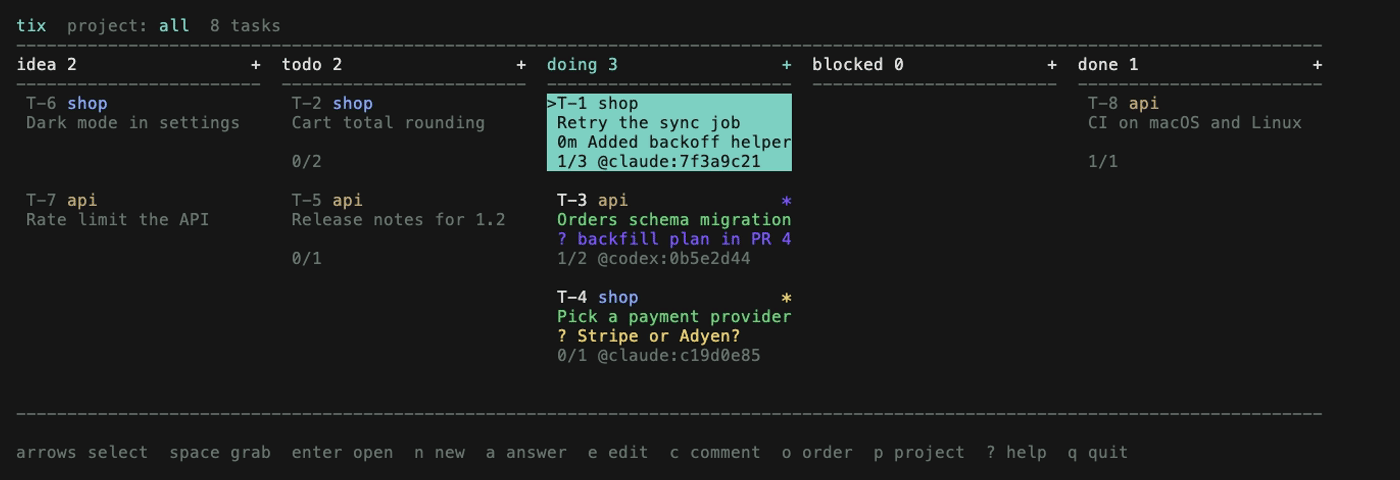
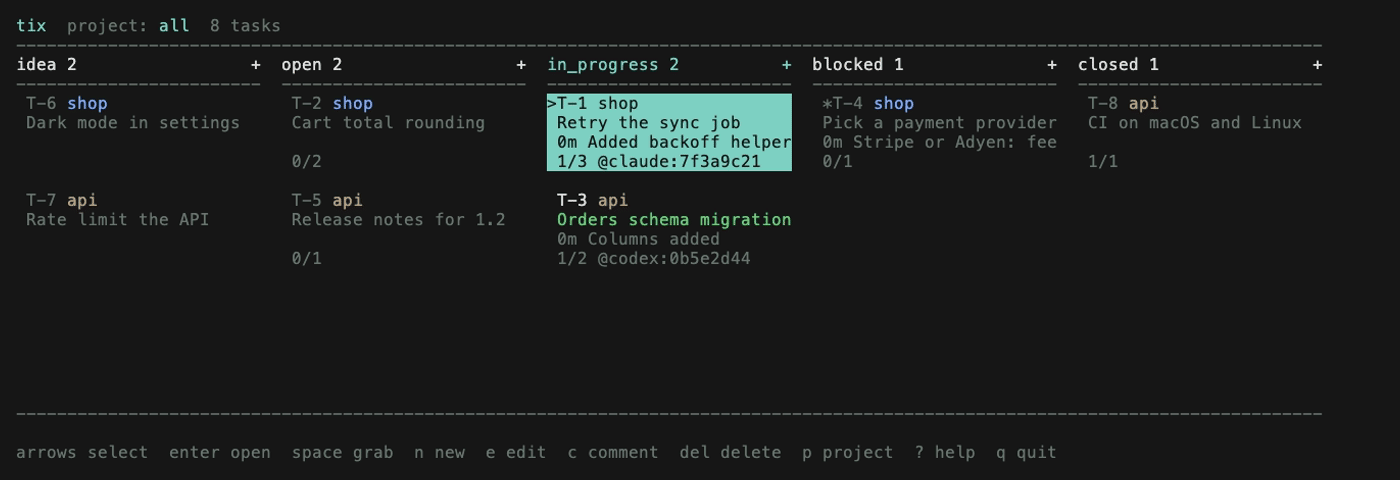
docs: align rules, skill and docs with the 0.7.0 model (#36)
Docs for 0.7.0: RULES.md, skill, README, spec and how-it-works follow the agent-memory model; state.md items moved to tix; board.png and demo.gif rebuilt.

diff --git a/internal/assets/assets.go b/internal/assets/assets.go
@@ -15,7 +15,7 @@ var Rules string
 
 // RulesHash - sha256 of Rules. A test keeps it equal to RULES.md: when the text changes, the old
 // hash moves into previousRules, so a store with an untouched old copy gets the new text.
[2 lines of base64/hex data omitted]
 
 // previousRules - sha256 of RULES.md texts shipped by earlier versions. An empty file is not here:
 // the owner may have emptied it on purpose.
@@ -34,6 +34,8 @@ var previousRules = map[string]bool{
[5 lines of base64/hex data omitted]
 }
 
 // OutdatedRules reports whether text is an untouched RULES.md of an earlier version.

diff --git a/internal/assets/RULES.md b/internal/assets/RULES.md
@@ -7,18 +7,20 @@ Tasks are `T-*.md` files in `~/tasks`, under git. Change them only with `tix`. R
 1. `tix take T-12`: the task moves to in_progress and you hold it for 3 hours.
 2. Work. Log progress with `tix note T-12 "text"` (see Progress). Any other write of yours to the task extends the hold; `note` does not.
 3. `tix check T-12 1 2`: mark finished criteria.
-4. `tix comment T-12 "text"`: comments are only appended.
+4. `tix comment T-12 "text"`: the human's channel. You write notes, not comments; comments are only appended.
 5. `tix done T-12 -m "result"`: closes the task and releases it. All criteria are checked: close the task now, do not keep it open for follow-up work.
 
-When a session ends without closing, write the comment `Done / Decided / Waiting` and run `tix take T-12 --release`: the task goes back to open.
+When a session ends without closing, write one note `Done / Decided / Waiting` and run `tix take T-12 --release`: the task goes back to open.
 
 ## Progress
 
 The human reads the task instead of your session. Keep it short and current.
 
-- Write a note on a decision (what you chose and why), a question, a finding and a stage change: spec, code, review, done. Not on every command. A note is up to 300 characters; longer text goes to a file and the note keeps its path. The board shows the latest note.
-- New comments on your tasks arrive in your context marked "New comments on your tasks", with the author. A comment by `human` is the human's instruction for that task; a comment by another agent is information.
-- A task should fit one session. It grew past that: create tasks for the rest, then `tix done T-12 --force -m "rest in T-15, T-16"`.
+- Write a short note on every movement: a decision (what you chose and why), a commit (`tix note T-12 "3f2a1c removed ask from the core"`: hash and gist), a PR with its link, a finding, a stage change. Not on every command. A note is up to 300 characters; longer text goes to a file and the note keeps its path. The board shows the latest note.
+- New comments on your tasks arrive in your context marked "New comments on your tasks", with the author. A comment by `human` is the human's instruction for that task; a comment by another agent, if any, is information.
+- A task is one or two sessions. It grew past that: create tasks for the rest, then `tix done T-12 --force -m "rest in T-15, T-16"`.
+- Write tickets in the user's language. The title is clear without context. Add to an existing task with the same result, do not open a duplicate.
+- The human's title and fields are edited with `tix set`; do not revert them.
 
 ## Identity
 
@@ -37,6 +39,7 @@ The name is `agent:session-id`: `--as`, then `CLAUDE_CODE_SESSION_ID`, `CODEX_TH
 - Into blocked: say why with `-m "reason"` or `tix set T-12 waiting="reason"`. Leaving blocked clears the field. Blocked drops your hold; the board marks it with `*` for the human.
 - Into closed: all criteria checked. Otherwise `--force -m "reason"`. A task with no criteria needs `-m "result"`.
 - `tix new "title" --to open --body-file body.md` creates a task with its criteria in one call (`--body-file -` reads stdin; without the flag stdin is not read). Without criteria `--to open` is refused; `--to` blocked or closed is refused: create the task, then `tix move` or `tix done`.
+- Restore: `~/tasks` is a git repository, `git -C ~/tasks log -- T-12.md` finds the commit to revert.
 - `tix list` hides closed tasks; `--all` or `--status closed` shows them, `--grep TEXT` matches the title.
 - `status`, `claim`, `rank`, `id` and `created` are not set with `set`. Use `move`, `take` and `done`.
 - `set` takes: title, project, waiting, tags, external, abstract.
@@ -48,7 +51,7 @@ The name is `agent:session-id`: `--as`, then `CLAUDE_CODE_SESSION_ID`, `CODEX_TH
 - Leftover work goes into a new task. New scope is a new task too. Do not stretch the open one.
 - Bigger work is an epic: a task tagged `epic` whose `## Details` lists its tasks as `- [ ] T-N <gist>`; a line without T-N is an acceptance criterion. The list lives only in the epic, a child task has no `Epic:` line (`tix show` prints it). The mark of a task line follows the task status by itself: `tix done` ticks it, a move out of closed clears it, `tix check` refuses it. When the last task line is ticked, `tix done` says the epic is ready for acceptance. Closing the epic ticks the lines of closed tasks; a line of an open or missing task refuses it, even with `--force`.
 - Frozen work stays in idea with the tag `frozen`: `tix set T-12 tags=frozen`. Do not close it and do not fold several tasks into one.
-- A long text (a report, a review, a log) goes into a file; the task gets its path in a comment.
+- A long text (a report, a review, a log) goes into a file; the task gets its path in a note.
 - You may create tasks, move them from idea to open, close and delete them, and edit `config.toml`.
 - An idea outside a project goes to idea with project `personal`.
 - A task needs the user? Move it to blocked with the reason: `tix move T-12 blocked -m "what you need"`, and write the details in a note. The human answers with a comment and moves it back.

diff --git a/docs/spec.md b/docs/spec.md
@@ -27,7 +27,8 @@ Compiled by the agent on 2026-10-20 from the user's decisions (`docs/specs/decis
 
 - Goal (D56): memory of agents between sessions and projects. Tasks are md files in `~/tasks` under git,
   and each edit leads to the agent session that made it. One folder for all projects and personal ideas;
-  the agent manages tasks through `tix`, the human looks at the board and the cards.
+  the agent manages tasks through `tix` and logs a short note on every movement (a decision, a commit, a PR); the human looks at the dashboard (the board and the cards), writes comments and edits through the TUI or `tix set`.
+- Restore: `~/tasks` is a git repository, `git -C ~/tasks log -- T-12.md` and `git revert` bring a task back; there is no backup command.
 - Principle (D44): a reference standard of speed, lightness and reliability. Each part passes the question "what
   breaks if it is removed"; the answer "nothing" means the part is removed. Numbers - section 7.
 
@@ -37,7 +38,7 @@ Compiled by the agent on 2026-10-20 from the user's decisions (`docs/specs/decis
 | CLI `tix`: 14 commands (2.2) | yes | | |
 | TUI `ascii`: board, card with history, `$EDITOR`, move, order, filter, live refresh, mouse and touchpad, key hint line (2.3) | yes | | |
 | Pulse on the board row: last note with its age (2.3) | yes | priority field, filters by date and priority | |
-| Work log in the task (`RULES.md`): a note for each decision, question and stage change; a note is up to 300 characters, long text goes to a file; an outgrown task is closed, the remainder becomes new tasks | yes | "task outgrown" signal, folding of notes in the card | |
+| Work log in the task (`RULES.md`): a short note for each movement: a decision with its reason, a commit (hash and gist), a PR with its link, a finding; a note is up to 300 characters, long text goes to a file; an outgrown task is closed, the remainder becomes new tasks | yes | "task outgrown" signal, folding of notes in the card | |
 | Agent model in history: the `Model:` trailer (2.4) | yes | analytics report: task time, returns, comparison of agents | |
 | Five fixed statuses; fields `waiting`, `claim`, `tags` | yes | custom fields, theme choice, theme `cards` | |
 | Board colors: green title with a live claim, grey card without a live claim, project colors (2.3) | yes | reply to the agent from the card | |
@@ -46,7 +47,7 @@ Compiled by the agent on 2026-10-20 from the user's decisions (`docs/specs/decis
 | External trackers | `external` as a link | status and result: `tix pull`, key `s` (D61, `docs/specs/integrations.md`) | sync of fields and comments |
 | Scheduled assistant, execution time on screen | | yes | |
 | Public repository v0.1.0: the whole repository in English, manifest and scenarios in the README, demo, CI, release (D47) | yes | | |
-| Column `review`, archive of `done` after 7 days, limit of tasks in progress per project, launching an agent from the board | | later (D65) | |
+| Column `review`, archive of `closed` after 7 days, limit of tasks in progress per project, launching an agent from the board | | later (D65) | |
 | Operations center: launching an agent from a card | | own spec, Galera #165 | in near versions |
 | `blocked_by`, `parent` and task links - investigation after the MVP (D65); `tix sync` for two machines (D61), opening the session of an edit, built-in editor, side panel, view in Obsidian Bases | | if needed | |
 | `estimate`, `branch`, `links`; editing comments; server, web, several machines; own LLM | | | yes |
@@ -316,7 +317,7 @@ See section 8.
   `## Details` (criteria as checkboxes, links),
   `## Comments` (append only).
 - `claim`: `actor until ISO`; only `take` checks it; the owner's writes to the file extend it by 3 h
-  (`note` does not); it is dropped by `take --release`, `done`, a move out of `active`, expiry (D36, D39).
+  (`note` does not); it is dropped by `take --release`, `done`, a move out of `in_progress`, expiry (D36, D39).
 - History event: commit `T-12: <operation> [text]`, trailers `Actor:` and `Code:` (D58).
 
 ## 6. Implementation stages

diff --git a/README.md b/README.md
@@ -6,16 +6,20 @@ Markdown tasks under git for AI coding agents, each edit linked to its session.
 [![release](https://img.shields.io/github/v/release/daniil4545/tix)](https://github.com/daniil4545/tix/releases)
 [![license](https://img.shields.io/github/license/daniil4545/tix)](LICENSE)
 
-![The tix board: tasks of two projects, two agents at work, a question waiting for you](assets/board.png)
+![The tix board: tasks of two projects, two agents at work](assets/board.png)
 
 `tix` keeps tasks as markdown files in one folder, `~/tasks`, under git. Agents
-(Claude Code, Codex) work through the `tix` command. You watch and steer the
-work on a terminal board, with keys or the mouse, or in Obsidian. Every edit is
+(Claude Code, Codex) work through the `tix` command: tix is their memory
+between sessions. The terminal board is your dashboard: you watch the work, move
+cards, comment and edit, with keys or the mouse, or read the files in Obsidian.
+An agent logs a short note on every step: a decision, a commit, a PR. A task
+that needs you goes to `blocked` with the reason, and the board marks it with
+`*`. Every edit is
 one git commit that names the agent session, and the model, that made it. A
 change always leads back to the conversation behind it. Your comments on a task
 reach the agent that holds it.
 
-Status: version 0.1, the file format may still change before 1.0.
+Status: pre-1.0, the file format may still change before 1.0.
 
 ## Features
 
@@ -29,7 +33,9 @@ Status: version 0.1, the file format may still change before 1.0.
 | Claim | `tix take` claims a task for 3 hours; another session needs `--steal` |
 | Short brief | `tix ctx` prints the in_progress, blocked and open tasks of the project in under 2000 characters; outside a project, in_progress and blocked tasks and counts of the rest |
 | Comments reach the agent | a hook hands your new comments to the agent that holds the task |
+| Five statuses | `idea`, `open`, `in_progress`, `blocked`, `closed`; an epic is a task with a todo list that `tix` ticks |
 | Board | `tix` without arguments opens a terminal board: keys, mouse, drag between columns |
+| History | the store is a git repository: `git -C ~/tasks log` and `git -C ~/tasks revert` restore any task |
 
 ## Install
 
@@ -84,10 +90,10 @@ Or take a macOS or Linux archive (amd64, arm64) from the
    ```
 
    ```text
-   ok T-1 todo > doing  @claude:demo until 17:30
+   ok T-1 open > in_progress  @claude:demo until 17:30
    ok T-1 note
    ok T-1 1/1
-   ok T-1 doing > done
+   ok T-1 in_progress > closed
    ```
 
 4. Open the board with `tix`, or list tasks with `tix list`.
@@ -109,7 +115,7 @@ and the task card with its history.
 
 ## More
 
-- [docs/commands.md](docs/commands.md): every command, exit codes, columns, board keys, settings.
+- [docs/commands.md](docs/commands.md): every command, exit codes, statuses, board keys, settings.
 - [docs/how-it-works.md](docs/how-it-works.md): connect Claude Code and Codex, what git records, design, comparison.
 - [docs/architecture.md](docs/architecture.md): map of the packages.
 

diff --git a/CHANGELOG.md b/CHANGELOG.md
@@ -10,9 +10,14 @@ All notable changes to this project are documented here. The format follows
 
 - The board card shows the latest note with its age in any column. A note is limited to 300 characters; a longer one is refused with code 5.
 - Five fixed statuses `idea`, `open`, `in_progress`, `blocked`, `closed` replace configurable columns with roles. A store with `[[column]]` is migrated when it is opened: task statuses are renamed by the role of their column and `[[column]]` is removed from `config.toml`, in one commit. The old words (`todo`, `doing`, `done`, `ready`, `active`, `waiting`, `inbox`) are refused with exit code 6 and a hint. `tix ctx` no longer prints the `columns:` line; the board marks `blocked` cards with `*`.
+- Epics: the todo list lives only in the epic (a task has no `Epic:` line). `tix done` ticks the task line, a move out of closed clears it, `tix check` refuses a task line. Closing an epic ticks the lines of closed tasks and refuses a line of an open or missing task, even with `--force`.
+- The TUI is a dashboard: the card line shows the title, the latest note with its age, the criteria and the claim; an epic shows `EPIC` with its ticked/all count; the hint line holds the common keys, the rest is under `?`; the card history opens with the last 5 rows. The title and fields are changed with `tix set`, the field editor `f` is gone.
+- `tix show` is faster: the epic lookup reads task files in parallel chunks.
 
 ### Removed
 
+- The `due` field: `tix set due=` is refused, the board drops the red date, the due sort and the `o` key.
+- The `ask` field and the `backup` command: the human is reached by a note and a move to `blocked`.
 - The `summary` field: `tix set summary=` is refused, `list`, `ctx` and the card no longer show it, and `--grep` matches the title only. An old `## Summary` section stays in the body as text.
 - The jump into an agent session: the `g` key and `g session` button in the TUI, and the Warp tab address the CLI cached after agent writes (`WARP_FOCUS_URL`, `TIX_FOCUS_DIR`).
 

diff --git a/docs/commands.md b/docs/commands.md
@@ -61,7 +61,7 @@ The same file has a `[projects]` table to rename a project folder.
 ## Board
 
 `tix` without arguments opens the board in a terminal. Columns show cards with
-the title, the project and a one-line pulse. The board refreshes when a file in
+the title, the latest note with its age, the criteria count and the claim. The board refreshes when a file in
 `~/tasks` changes, so an agent's work appears live. Color shows who is on a
 task: the title is green while an agent holds a live claim, and the whole card
 is grey when nobody does. Each project
@@ -81,8 +81,8 @@ label has its own muted color.
 
 In a card, `j` and `k` step through the history, `enter` unfolds an entry or
 toggles a criterion, `h` and `l` open the previous or next task of the column,
-`f` edits one field (title, tags, waiting, external) and
-`esc` goes back.
+`e` and `c` work as on the board, and `esc` goes back. The title and the fields
+(tags, project, external, waiting, abstract) are changed with `tix set`.
 
 The mouse does the same. Click a card to select it and double click to open
 it. Drag a card to another column to move it. Click `+` in a column name for a
@@ -90,7 +90,7 @@ new task. The wheel scrolls. The hint line and the card actions line are
 buttons.
 
 A drop or a drag goes through the same checks as `tix move`. A refusal, for
-example moving a task without criteria to `todo`, shows in the status line.
+example moving a task without criteria to `open`, shows in the status line.
 
 
 ## Configuration
@@ -107,5 +107,5 @@ All variables are optional.
 | `VISUAL`, `EDITOR` | editor for the board, `vi` if both are empty |
 
 `tix` writes only inside the task folder. Service files live in
-`~/tasks/.tix`. Small per-user state (delivery marks, tab addresses) lives in
+`~/tasks/.tix`. Small per-user state (delivery marks) lives in
 the user cache folder under `tix/`. `tix` makes no network calls.

diff --git a/connectors/agents/skills/tix/SKILL.md b/connectors/agents/skills/tix/SKILL.md
@@ -11,11 +11,11 @@ Run `tix ctx` first (a hook may have run it). It lists `in_progress`, `blocked`,
 
 0. Agreed work with no task gets one: `tix new "title" --to open --body-file body.md`, criteria are `- [ ]` lines under `## Details` of the body file (`-` reads stdin). Trivial edits need none.
 1. `tix take T-12` - claim a task (3 hours); an idea with criteria is taken too.
-2. `tix note T-12 "decided X because Y"` - log a decision, question, finding or stage change; not every command.
+2. `tix note T-12 "decided X because Y"` - a short note (up to 300 characters) on every movement: a decision with its reason, a commit (`3f2a1c removed ask`), a PR with its link, a finding; not every command. Notes are yours, comments are the human's.
 3. `tix check T-12 1 2` - tick done criteria by number.
 4. `tix done T-12 -m "result"` - close once all criteria are checked.
 
-Remaining or new scope is a new task: `tix new`. Frozen work stays in idea with tag `frozen`, never done. Need the human: `tix move T-12 blocked -m "what you need"`.
+Remaining or new scope is a new task: `tix new`; a task with the same result gets an addition instead. A task is one or two sessions. Write tickets in the user's language, the title clear without context. An epic is a task tagged `epic` with a todo list `- [ ] T-N`; `tix` ticks the lines, closing the epic with open lines is refused. Frozen work stays in idea with tag `frozen`, never closed. Need the human: `tix move T-12 blocked -m "what you need"` and a note with the details. The human edits the title and fields with `tix set`. A lost edit: `git -C ~/tasks log -- T-12.md`.
 
 ## Rules
 

diff --git a/docs/architecture.md b/docs/architecture.md
@@ -1,6 +1,6 @@
 # tix architecture
 
-tix is a personal task tracker for humans and agents. A task is an md file in `~/tasks`, the store is a git repository, and every edit is a commit with an author. Agents (Claude Code, Codex) write through the `tix` CLI, and the human edits files in Obsidian. The system is one `tix` binary with no daemon: a process starts for a command and exits. State lives in files and in git. All external calls (git, push) go through the `gitx` package.
+tix is a personal task tracker for humans and agents. A task is an md file in `~/tasks`, the store is a git repository, and every edit is a commit with an author. Agents (Claude Code, Codex) write through the `tix` CLI: tix is their memory between sessions. The human watches the TUI dashboard, edits the body there or files in Obsidian, and changes the title and fields with `tix set`. The system is one `tix` binary with no daemon: a process starts for a command and exits. State lives in files and in git. All external calls (git, push) go through the `gitx` package.
 
 How to read: the overall picture is section 1, the flow of work is sections 2 and 3, where to edit is section 9. Setup: `README.md`.
 
@@ -117,7 +117,7 @@ sequenceDiagram
   K->>G: commit with Actor and Code
   K->>F: release lock
   K-->>C: Result
-  C-->>A: ok T-12 todo > doing @claude until 20:40
+  C-->>A: ok T-12 open > in_progress @claude until 20:40
 ```
 
 | Step | Module | What it does |

diff --git a/docs/how-it-works.md b/docs/how-it-works.md
@@ -101,7 +101,7 @@ terminal.
 <details>
 <summary>How do I back it up?</summary>
 
-`~/tasks` is a git repository: add a private remote and push it with `git`.
+`~/tasks` is a git repository: add a private remote and push it with `git`. To restore a task, find the commit with `git -C ~/tasks log -- T-12.md` and `git -C ~/tasks revert` it.
 </details>
 
 ## Comparison
